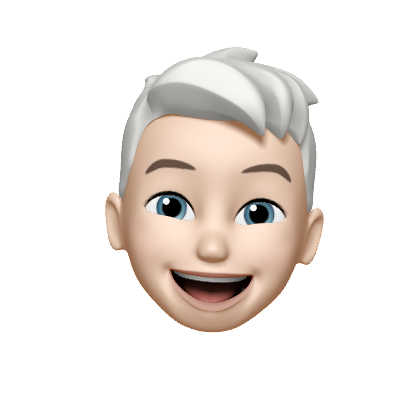
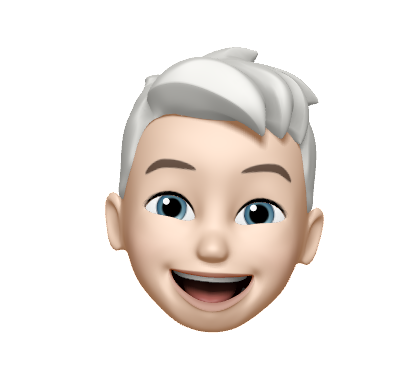
update style

Changed region(s): [[0.2476, 0.0935, 0.7738, 0.8727]]

diff --git a/index.html b/index.html
@@ -42,7 +42,7 @@
       <div class="sidebar-info">
 
         <figure class="avatar-box">
-          <img src="./assets/images/my-avatar.png" alt="Jasper Albers" width="80">
+          <img src="./assets/images/my-avatar.png" alt="Jasper Albers" width="60">
         </figure>
 
         <div class="info-content">
@@ -107,6 +107,12 @@
           <li class="social-item">
             <a href="https://www.linkedin.com/in/jasper-albers/" class="social-link">
               <ion-icon name="logo-linkedin"></ion-icon>
+            </a>
+          </li>
+
+          <li class="social-item">
+            <a href="https://scholar.google.com/citations?user=RZqyxSQAAAAJ&hl=en" class="social-link">
+              <ion-icon name="school-sharp"></ion-icon>
             </a>
           </li>
 
@@ -194,9 +200,9 @@
           - service
         -->
 
-        <section class="service">
+<!--         <section class="service">
 
-          <h3 class="h3 service-title">What i'm doing</h3>
+          <h3 class="h3 service-title">What I'm Doing</h3>
 
           <ul class="service-list">
 
@@ -267,14 +273,14 @@
 
           </ul>
 
-        </section>
+        </section> -->
 
 
         <!--
           - testimonials
         -->
 
-        <section class="testimonials">
+<!--         <section class="testimonials">
 
           <h3 class="h3 testimonials-title">Testimonials</h3>
 
@@ -370,7 +376,7 @@
 
           </ul>
 
-        </section>
+        </section> -->
 
 
         <!--
@@ -424,43 +430,19 @@
 
         <section class="clients">
 
-          <h3 class="h3 clients-title">Clients</h3>
+          <h3 class="h3 clients-title">Affiliations</h3>
 
           <ul class="clients-list has-scrollbar">
 
             <li class="clients-item">
-              <a href="#">
-                <img src="./assets/images/logo-1-color.png" alt="client logo">
+              <a href="https://www.fz-juelich.de/en/">
+                <img src="./assets/images/logo-fzj.png" alt="client logo" width="80">
               </a>
             </li>
 
             <li class="clients-item">
-              <a href="#">
-                <img src="./assets/images/logo-2-color.png" alt="client logo">
-              </a>
-            </li>
-
-            <li class="clients-item">
-              <a href="#">
-                <img src="./assets/images/logo-3-color.png" alt="client logo">
-              </a>
-            </li>
-
-            <li class="clients-item">
-              <a href="#">
-                <img src="./assets/images/logo-4-color.png" alt="client logo">
-              </a>
-            </li>
-
-            <li class="clients-item">
-              <a href="#">
-                <img src="./assets/images/logo-5-color.png" alt="client logo">
-              </a>
-            </li>
-
-            <li class="clients-item">
-              <a href="#">
-                <img src="./assets/images/logo-6-color.png" alt="client logo">
+              <a href="https://www.rwth-aachen.de/cms/~a/root/?lidx=1">
+                <img src="./assets/images/logo-rwth.png" alt="client logo" width="80">
               </a>
             </li>
 
@@ -488,7 +470,7 @@
 
           <div class="title-wrapper">
             <div class="icon-box">
-              <ion-icon name="book-outline"></ion-icon>
+              <ion-icon name="school-outline"></ion-icon>
             </div>
 
             <h3 class="h3">Education</h3>
@@ -513,7 +495,7 @@
 
             <li class="timeline-item">
 
-              <h4 class="h4 timeline-item-title">Master of Science in Physics, final grade: 1.0</h4>
+              <h4 class="h4 timeline-item-title">Master of Science in Physics, final grade: 1.0<sup>†</sup></h4>
 
               <span>10.2016 – 09.2019</span>
 
@@ -542,14 +524,15 @@
 
             <li class="timeline-item">
 
-              <h4 class="h4 timeline-item-title">Bachelor of Science in Physics, final grade: 1.0</h4>
+              <h4 class="h4 timeline-item-title">Bachelor of Science in Physics, final grade: 1.0<sup>†</sup></h4>
 
               <span>10.2013 – 09.2016</span>
 
               <p class="timeline-text">
                 Thesis: “Fitting the Galactic Center Excess with Simplified Models for Dark Matter”<br>
                 Supervisor: Prof. Michael Krämer<br>
-                <i>RWTH Aachen University, Aachen, Germany</i>
+                <i>RWTH Aachen University, Aachen, Germany</i><br><br>
+                <sup>†</sup> Scale from 1.0 (best) to 5.0 (failed)
 
               </p>
 
@@ -563,7 +546,7 @@
 
           <div class="title-wrapper">
             <div class="icon-box">
-              <ion-icon name="book-outline"></ion-icon>
+              <ion-icon name="construct-outline"></ion-icon>
             </div>
 
             <h3 class="h3">Experience</h3>
@@ -627,7 +610,7 @@
 
           <div class="title-wrapper">
             <div class="icon-box">
-              <ion-icon name="book-outline"></ion-icon>
+              <ion-icon name="id-card-outline"></ion-icon>
             </div>
 
             <h3 class="h3">Conferences & Schools</h3>
@@ -698,7 +681,7 @@
 
           <div class="title-wrapper">
             <div class="icon-box">
-              <ion-icon name="book-outline"></ion-icon>
+              <ion-icon name="trophy-outline"></ion-icon>
             </div>
 
             <h3 class="h3">Awards & Scholarships</h3>
@@ -746,7 +729,7 @@
 
           <div class="title-wrapper">
             <div class="icon-box">
-              <ion-icon name="book-outline"></ion-icon>
+              <ion-icon name="diamond-outline"></ion-icon>
             </div>
 
             <h3 class="h3">Skills</h3>
@@ -792,7 +775,7 @@
 
           <div class="title-wrapper">
             <div class="icon-box">
-              <ion-icon name="book-outline"></ion-icon>
+              <ion-icon name="people-outline"></ion-icon>
             </div>
 
             <h3 class="h3">Voluntary Engagement</h3>
@@ -845,7 +828,7 @@
 
           <div class="title-wrapper">
             <div class="icon-box">
-              <ion-icon name="book-outline"></ion-icon>
+              <ion-icon name="shapes-outline"></ion-icon>
             </div>
 
             <h3 class="h3">Computational Neuroscience</h3>
@@ -860,8 +843,10 @@
               <span>2022</span>
 
               <p class="timeline-text">
-                <a href="https://www.frontiersin.org/articles/10.3389/fninf.2022.883333/full" class="contact-link">Frontiers in Neuroinformatics</a>
+
+                <a href="https://www.frontiersin.org/articles/10.3389/fninf.2022.883333/full" class="navbar-link">Frontiers in Neuroinformatics<br>
                 <i>G. Tiddia, B. Golosio, <b>J. Albers</b>, J. Senk, F. Simula, J. Pronold, V. Fanti, E. Pastorelli, P. S. Paolucci, S. J. van Albada</i>
+                </a>
 
               </p>
 
@@ -874,22 +859,9 @@
               <span>2022</span>
 
               <p class="timeline-text">
-                <a href="https://www.frontiersin.org/articles/10.3389/fninf.2022.837549/full" class="contact-link">Frontiers in Neuroinformatics</a>
+                <a href="https://www.frontiersin.org/articles/10.3389/fninf.2022.837549/full" class="navbar-link">Frontiers in Neuroinformatics<br>
                 <i><b>J. Albers</b>, J. Pronold, A. C. Kurth, S. B. Vennemo, K. Haghighi Mood, A. Patronis, D. Terhorst, J. Jordan, S. Kunkel, T. Tetzlaff, M. Diesmann, J. Senk</i>
-
-              </p>
-
-            </li>
-
-            <li class="timeline-item">
-
-              <h4 class="h4 timeline-item-title">Fast simulation of a multi-area spiking network model of macaque cortex on an MPI-GPU cluster</h4>
-
-              <span>2022</span>
-
-              <p class="timeline-text">
-                <a href="https://www.frontiersin.org/articles/10.3389/fninf.2022.883333/full" class="contact-link">Frontiers in Neuroinformatics</a>
-                <i>G. Tiddia, B. Golosio, <b>J. Albers</b>, J. Senk, F. Simula, J. Pronold, V. Fanti, E. Pastorelli, P. S. Paolucci, S. J. van Albada</i>
+                </a>
 
               </p>
 
@@ -903,7 +875,7 @@
 
           <div class="title-wrapper">
             <div class="icon-box">
-              <ion-icon name="book-outline"></ion-icon>
+              <ion-icon name="planet-outline"></ion-icon>
             </div>
 
             <h3 class="h3">Cosmology</h3>
@@ -918,8 +890,8 @@
               <span>2019</span>
 
               <p class="timeline-text">
-                <a href="https://iopscience.iop.org/article/10.1088/1475-7516/2019/09/028/pdf" class="contact-link">Journal of Cosmology and Astroparticle Physics</a>
-                <i><b>J. Albers</b>, C. Fidler, J. Lesgourgues, N. Schöneberg, J. Torrado</i>
+                <a href="https://iopscience.iop.org/article/10.1088/1475-7516/2019/09/028/pdf" class="navbar-link">Journal of Cosmology and Astroparticle Physics<br>
+                <i><b>J. Albers</b>, C. Fidler, J. Lesgourgues, N. Schöneberg, J. Torrado</i></a>
 
               </p>
 

diff --git a/assets/css/style.css b/assets/css/style.css
@@ -459,7 +459,7 @@ main {
   bottom: 0;
   left: 0;
   width: 100%;
-  background: hsla(240, 1%, 17%, 0.75);
+  background: hsla(240, 1%, 17%, 1.0);
   backdrop-filter: blur(10px);
   border: 1px solid var(--jet);
   border-radius: 12px 12px 0 0;
